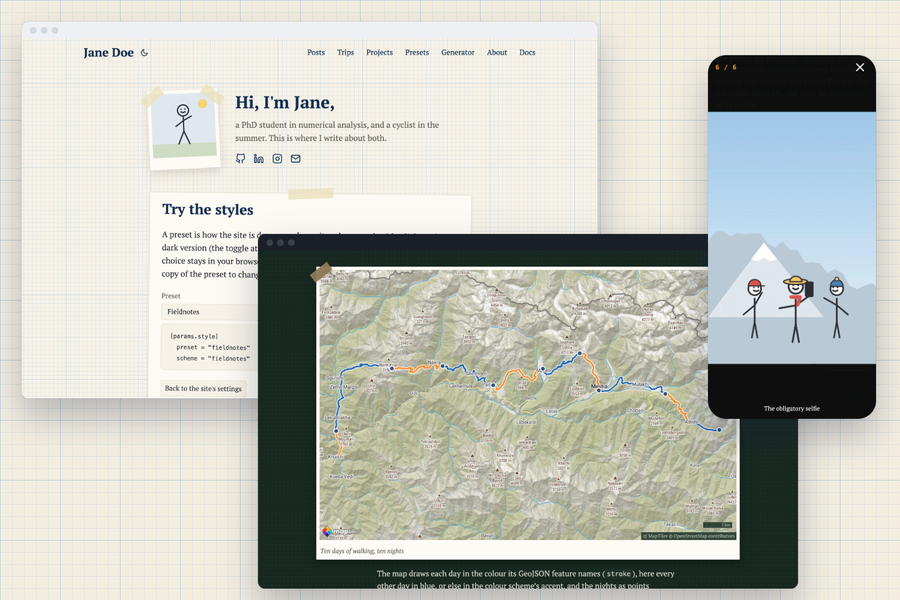
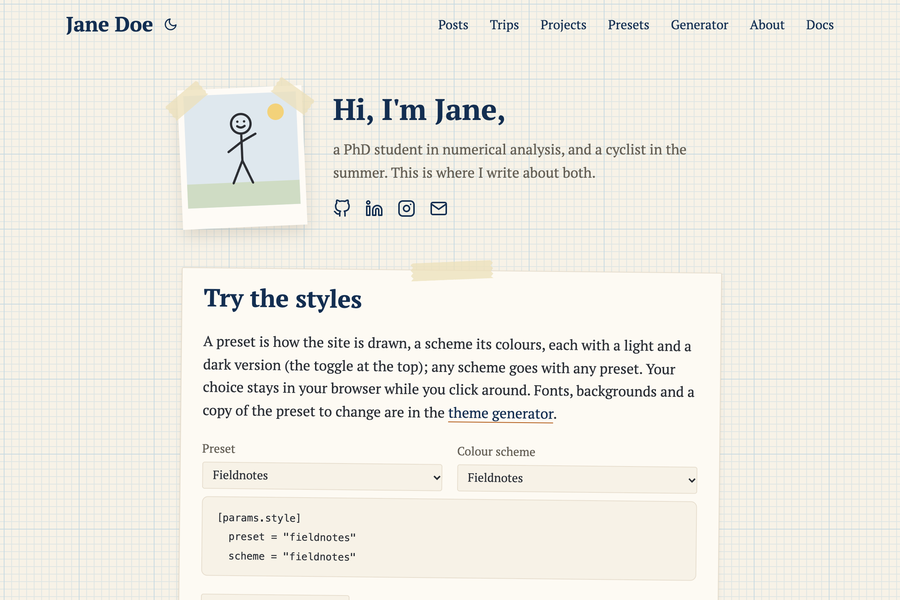
Plain screenshots for Hugo's theme site
themes.gohugo.io wants screenshot and tn without browser or device
frames, so they are now a plain capture of the demo's home page. The
framed picture moves to images/showcase.png and stays at the top of the
README. README images use absolute URLs, which the theme site needs.

diff --git a/README.md b/README.md
@@ -8,14 +8,14 @@ server, no database and no build step of its own.
 [**Demo**](https://fieldnotes.maxfettinger.com/) · [**Docs**](https://fieldnotes.maxfettinger.com/docs/) ·
 [Getting started](https://fieldnotes.maxfettinger.com/docs/guide/getting-started/)
 
-![Fieldnotes: a home page on graph paper with a taped photo and a card, a trip page with a topographic map of the route, and the photo viewer on a phone showing a portrait photo](images/screenshot.png)
+![Fieldnotes: a home page on graph paper with a taped photo and a card, a trip page with a topographic map of the route, and the photo viewer on a phone showing a portrait photo](https://raw.githubusercontent.com/maxfettinger/fieldnotes/main/images/showcase.png)
 
 ## What's in it
 
 - **Six presets** for how the site is drawn (fieldnotes, minimal, editorial, cinematic, brutalist, terminal) and
   **fourteen colour schemes**, any with any.
 
-  ![The six presets: fieldnotes, minimal, editorial, cinematic, brutalist and terminal, each a home page](images/presets.jpg)
+  ![The six presets: fieldnotes, minimal, editorial, cinematic, brutalist and terminal, each a home page](https://raw.githubusercontent.com/maxfettinger/fieldnotes/main/images/presets.jpg)
 
 - **Trip maps** from a GeoJSON route on MapTiler's topographic map.
 - **Photo and video galleries** from a folder, opening in a swipeable viewer
